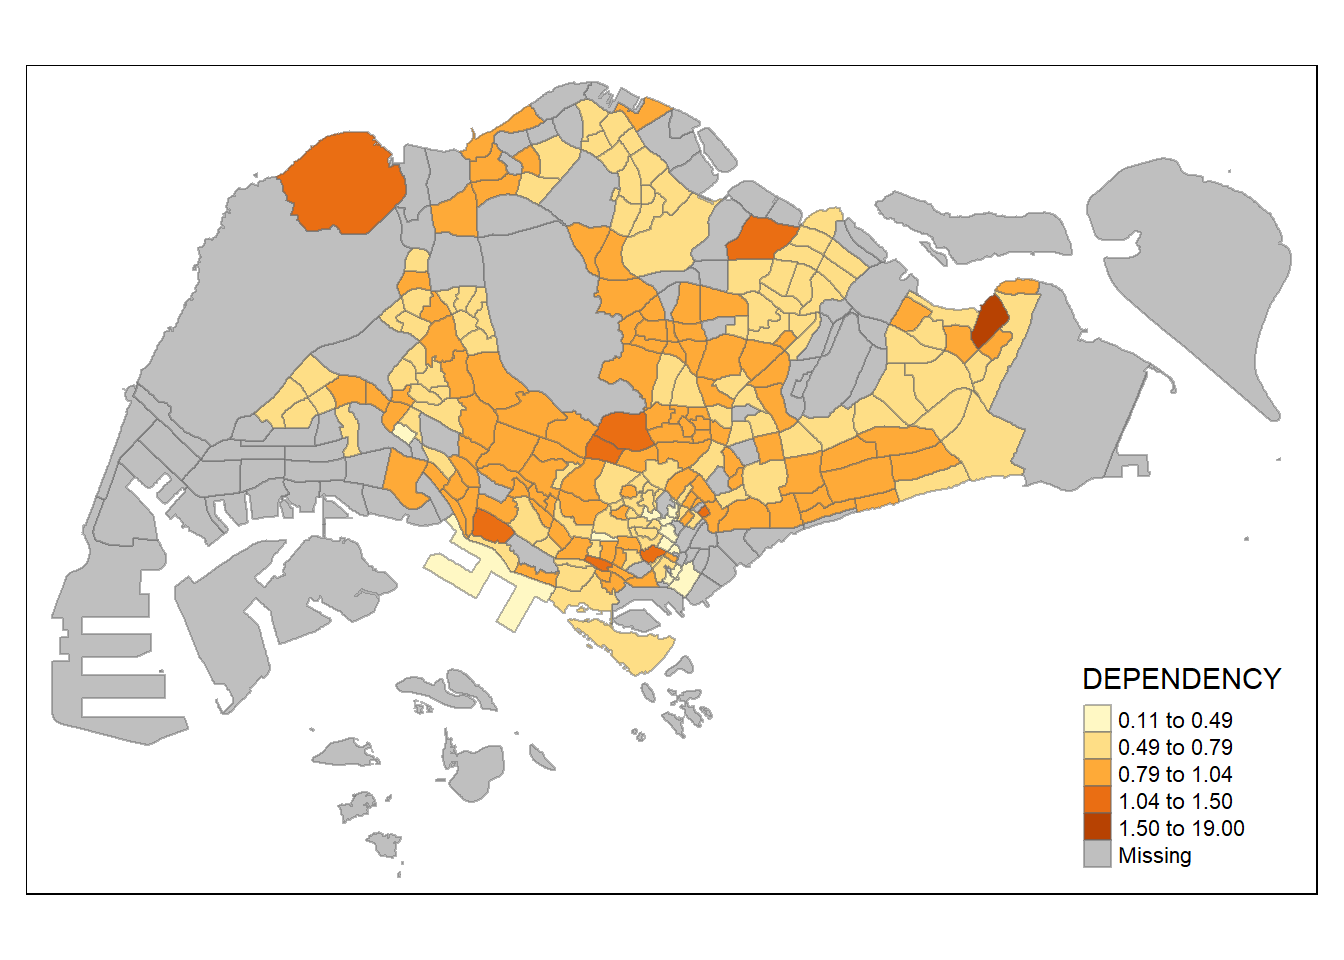
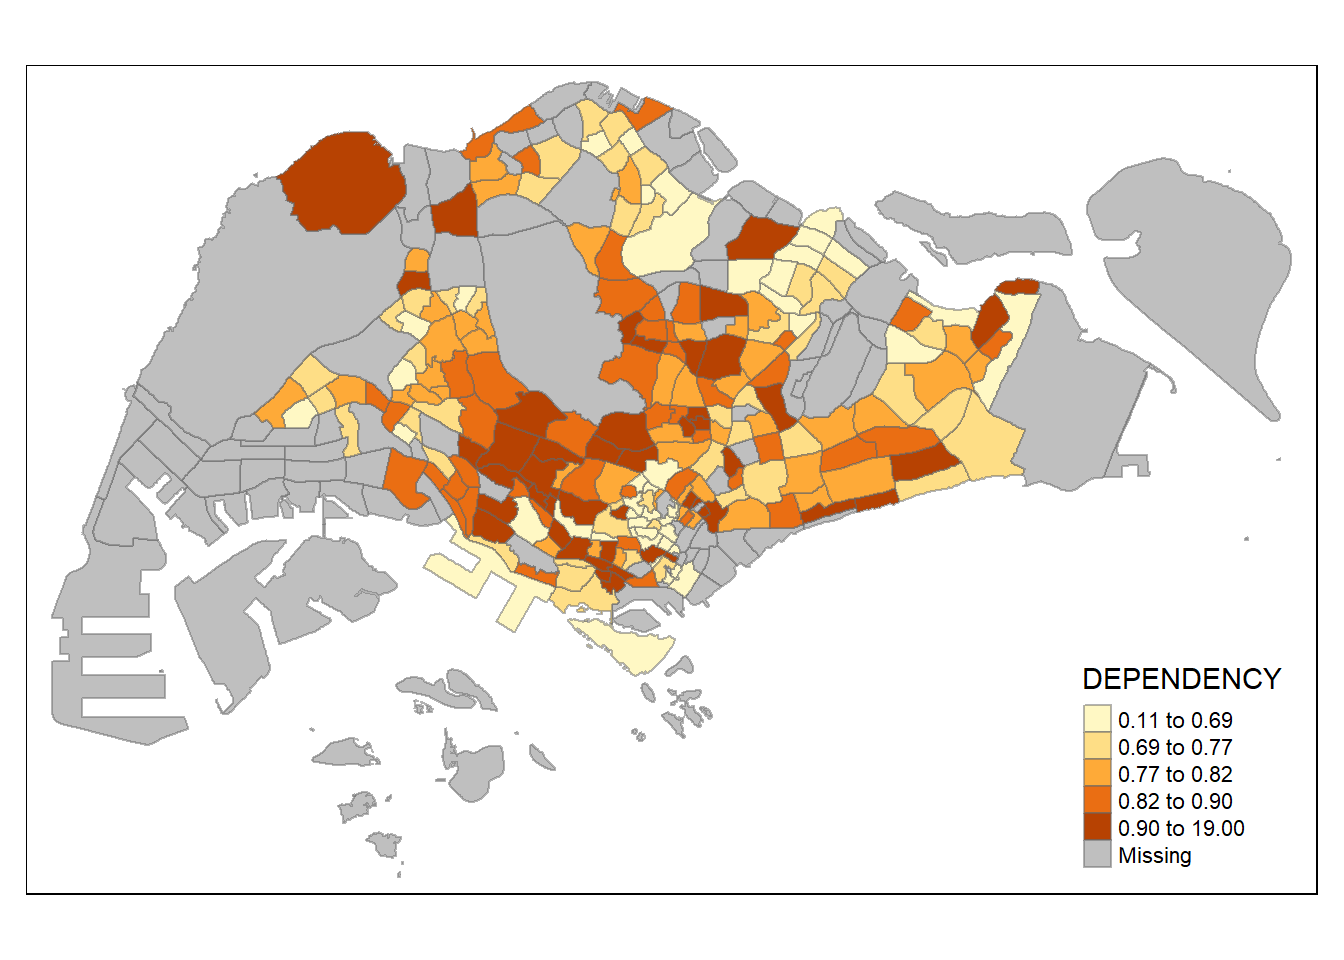
Create In-class Exercise 02

Changed region(s): [[0.1875, 0.0938, 0.7812, 0.7188], [0.8125, 0.7812, 0.9375, 0.875]]

diff --git a/_site/In-class_Ex/In-class_Ex02/In-class_Ex02.html b/_site/In-class_Ex/In-class_Ex02/In-class_Ex02.html
@@ -8,7 +8,7 @@
 
 <meta name="dcterms.date" content="2024-01-15">
 
-<title>IS415-GAA - 1st Order Spatial Point Patterns Analysis Methods</title>
+<title>IS415-GAA - R for Geospatial Data Science</title>
 <style>
 code{white-space: pre-wrap;}
 span.smallcaps{font-variant: small-caps;}
@@ -150,6 +150,17 @@ pre > code.sourceCode > span > a:first-child::before { text-decoration: underlin
   </li>  
     </ul>
   </li>
+  <li class="nav-item dropdown ">
+    <a class="nav-link dropdown-toggle" href="#" id="nav-menu-take-home-exercise" role="button" data-bs-toggle="dropdown" aria-expanded="false" rel="" target="">
+ <span class="menu-text">Take-home Exercise</span>
+    </a>
+    <ul class="dropdown-menu" aria-labelledby="nav-menu-take-home-exercise">    
+        <li>
+    <a class="dropdown-item" href="../../Take-home_Ex/Take-home_Ex01/Take-home_Ex01.html" rel="" target="">
+ <span class="dropdown-text">Take-home Exercise 1</span></a>
+  </li>  
+    </ul>
+  </li>
 </ul>
             <ul class="navbar-nav navbar-nav-scroll ms-auto">
   <li class="nav-item">
@@ -176,13 +187,7 @@ pre > code.sourceCode > span > a:first-child::before { text-decoration: underlin
     <h2 id="toc-title">On this page</h2>
    
   <ul>
-  <li><a href="#overview" id="toc-overview" class="nav-link active" data-scroll-target="#overview">Overview</a></li>
-  <li><a href="#the-data" id="toc-the-data" class="nav-link" data-scroll-target="#the-data">The Data</a></li>
-  <li><a href="#installing-and-loading-the-r-packages" id="toc-installing-and-loading-the-r-packages" class="nav-link" data-scroll-target="#installing-and-loading-the-r-packages">Installing and Loading the R packages</a></li>
-  <li><a href="#spatial-data-wrangling" id="toc-spatial-data-wrangling" class="nav-link" data-scroll-target="#spatial-data-wrangling">Spatial Data Wrangling</a>
-  <ul class="collapse">
-  <li><a href="#importing-the-spatial-data" id="toc-importing-the-spatial-data" class="nav-link" data-scroll-target="#importing-the-spatial-data">Importing the spatial data</a></li>
-  </ul></li>
+  <li><a href="#getting-started" id="toc-getting-started" class="nav-link active" data-scroll-target="#getting-started">Getting Started</a></li>
   </ul>
 </nav>
     </div>
@@ -191,8 +196,8 @@ pre > code.sourceCode > span > a:first-child::before { text-decoration: underlin
 
 <header id="title-block-header" class="quarto-title-block default">
 <div class="quarto-title">
-<h1 class="title">1st Order Spatial Point Patterns Analysis Methods</h1>
-<p class="subtitle lead">Hands-on Exercise 3-1</p>
+<h1 class="title">R for Geospatial Data Science</h1>
+<p class="subtitle lead">In-class Exercise 2</p>
 </div>
 
 
@@ -219,82 +224,21 @@ pre > code.sourceCode > span > a:first-child::before { text-decoration: underlin
 
 </header>
 
-<section id="overview" class="level1">
-<h1>Overview</h1>
-<p>Spatial Point Pattern Analysis is the evaluation of the pattern or distribution, of a set of points on a surface. The point can be a location of:</p>
+<section id="getting-started" class="level1">
+<h1>Getting Started</h1>
+<p>The following R packages will be used:</p>
 <ul>
-<li><p>events such as crime, traffic accident and disease onset</p></li>
-<li><p>business services (coffee and fast-food outlets) or facilities such as childcare and elder-care</p></li>
+<li><p>arrow</p></li>
+<li><p>lubridate</p></li>
+<li><p>tidyverse</p></li>
+<li><p>tmap</p></li>
+<li><p>sf</p></li>
 </ul>
-<p>Using appropriate functions of <code>spatstat</code>, this hands-on exercise aims to discover the spatial point processes of childcare centers in Singapore.</p>
-<p>The specific questions we would like to answer are as follows:</p>
-<ul>
-<li><p>Are childcare centers in Singapore randomly distributed throughout the country?</p></li>
-<li><p>If the answer is not, then the next logical question is where are the locations with higher concentration of childcare centers?</p></li>
-</ul>
-</section>
-<section id="the-data" class="level1">
-<h1>The Data</h1>
-<p>To provide answers to the questions above, three data sets will be used. They are:</p>
-<ul>
-<li><p><code>CHILDCARE</code></p>
-<ul>
-<li><p>a point feature data providing both location and attribute information of childcare centers.</p></li>
-<li><p>Downloaded from Data.gov.sg and is in geojson format</p></li>
-</ul></li>
-<li><p><code>MP14_SUBZONE_WEB_PL</code></p>
-<ul>
-<li><p>a polygon feature data providing information of URA 2014 Master Plan Planning Subzone boundary data.</p></li>
-<li><p>Downloaded from Data.gov.sg and is in ESRI shapefile format</p></li>
-</ul></li>
-<li><p><code>CostalOutline</code></p>
-<ul>
-<li><p>a polygon feature data showing the national boundary of Singapore.</p></li>
-<li><p>Provided by SLA and is in ESRI shapefile format</p></li>
-</ul></li>
-</ul>
-</section>
-<section id="installing-and-loading-the-r-packages" class="level1">
-<h1>Installing and Loading the R packages</h1>
-<p>In this hands-on exercise, five R packages will be used, they are:</p>
-<ul>
-<li><p><a href="https://r-spatial.github.io/sf/"><strong>sf</strong></a></p>
-<ul>
-<li>a relatively new R package specially designed to import, manage and process vector-based geospatial data in R</li>
-</ul></li>
-<li><p><a href="https://spatstat.org/"><strong>spatstat</strong></a></p>
-<ul>
-<li><p>which has a wide range of useful functions for point pattern analysis.</p></li>
-<li><p>In this hands-on exercise, it will be used to perform 1st- and 2nd-order spatial point patterns analysis and derive kernel density estimation (KDE) layer.</p></li>
-</ul></li>
-<li><p><a href="https://cran.r-project.org/web/packages/raster/"><strong>raster</strong></a></p>
-<ul>
-<li><p>which reads, writes, manipulates, analyses and model gridded spatial data (i.e.&nbsp;raster).</p></li>
-<li><p>In this hands-on exercise, it will be used to convert image output generated by <strong>spatstat</strong> into raster format</p></li>
-</ul></li>
-<li><p><a href="https://cran.r-project.org/web/packages/maptools/"><strong>maptools</strong></a></p>
-<ul>
-<li><p>which provides a set of tools for manipulating geographic data.</p></li>
-<li><p>In this hands-on exercise, we mainly use it to convert <code>Spatial</code> objects into <code>ppp</code> format of <strong>spatstat</strong>.</p></li>
-</ul></li>
-<li><p><a href="https://cran.r-project.org/web/packages/tmap/"><strong>tmap</strong></a></p>
-<ul>
-<li>which provides functions for plotting cartographic quality static point pattern maps or interactive maps by using <a href="https://leafletjs.com/">leaflet</a> API</li>
-</ul></li>
-</ul>
-<p>Use the code below to install and launch the five R packages.</p>
 <div class="cell">
-<div class="sourceCode cell-code" id="cb1"><pre class="sourceCode r code-with-copy"><code class="sourceCode r"><span id="cb1-1"><a href="#cb1-1" aria-hidden="true" tabindex="-1"></a>pacman<span class="sc">::</span><span class="fu">p_load</span>(maptools, sf, raster, spatstat, tmap)</span></code><button title="Copy to Clipboard" class="code-copy-button"><i class="bi"></i></button></pre></div>
+<div class="sourceCode cell-code" id="cb1"><pre class="sourceCode r code-with-copy"><code class="sourceCode r"><span id="cb1-1"><a href="#cb1-1" aria-hidden="true" tabindex="-1"></a>pacman<span class="sc">::</span><span class="fu">p_load</span>(sf, tmap, tidyverse)</span></code><button title="Copy to Clipboard" class="code-copy-button"><i class="bi"></i></button></pre></div>
 </div>
-</section>
-<section id="spatial-data-wrangling" class="level1">
-<h1>Spatial Data Wrangling</h1>
-<section id="importing-the-spatial-data" class="level2">
-<h2 class="anchored" data-anchor-id="importing-the-spatial-data">Importing the spatial data</h2>
-<p>In this section, <code>st_read()</code> of <strong>sf</strong> package will be used to import these three geospatial data sets into R.</p>
 
 
-</section>
 </section>
 
 <a onclick="window.scrollTo(0, 0); return false;" role="button" id="quarto-back-to-top"><i class="bi bi-arrow-up"></i> Back to top</a></main> <!-- /main -->

diff --git a/_site/Hands-on_Ex/Hands-on_Ex02/Hands-on_Ex02.html b/_site/Hands-on_Ex/Hands-on_Ex02/Hands-on_Ex02.html
@@ -129,6 +129,14 @@ pre > code.sourceCode > span > a:first-child::before { text-decoration: underlin
     <a class="dropdown-item" href="../../Hands-on_Ex/Hands-on_Ex02/Hands-on_Ex02.html" rel="" target="">
  <span class="dropdown-text">Hands-on Exercise 2</span></a>
   </li>  
+        <li>
+    <a class="dropdown-item" href="../../Hands-on_Ex/Hands-on_Ex03/Hands-on_Ex03-1.html" rel="" target="">
+ <span class="dropdown-text">Hands-on Exercise 3-1</span></a>
+  </li>  
+        <li>
+    <a class="dropdown-item" href="../../Hands-on_Ex/Hands-on_Ex03/Hands-on_Ex03-2.html" rel="" target="">
+ <span class="dropdown-text">Hands-on Exercise 3-2</span></a>
+  </li>  
     </ul>
   </li>
 </ul>
@@ -232,7 +240,7 @@ pre > code.sourceCode > span > a:first-child::before { text-decoration: underlin
     <div>
     <div class="quarto-title-meta-heading">Modified</div>
     <div class="quarto-title-meta-contents">
-      <p class="date-modified">January 13, 2024</p>
+      <p class="date-modified">January 15, 2024</p>
     </div>
   </div>
     
@@ -592,7 +600,7 @@ First 10 features:
 <div class="sourceCode cell-code" id="cb19"><pre class="sourceCode r code-with-copy"><code class="sourceCode r"><span id="cb19-1"><a href="#cb19-1" aria-hidden="true" tabindex="-1"></a><span class="fu">tm_shape</span>(mpsz_pop2020) <span class="sc">+</span> </span>
 <span id="cb19-2"><a href="#cb19-2" aria-hidden="true" tabindex="-1"></a>  <span class="fu">tm_fill</span>(<span class="st">"DEPENDENCY"</span>,</span>
 <span id="cb19-3"><a href="#cb19-3" aria-hidden="true" tabindex="-1"></a>          <span class="at">n =</span> <span class="dv">5</span>,</span>
-<span id="cb19-4"><a href="#cb19-4" aria-hidden="true" tabindex="-1"></a>          <span class="at">style =</span> <span class="st">"jenks"</span>) <span class="sc">+</span></span>
+<span id="cb19-4"><a href="#cb19-4" aria-hidden="true" tabindex="-1"></a>          <span class="at">style =</span> <span class="st">"quantile"</span>) <span class="sc">+</span></span>
 <span id="cb19-5"><a href="#cb19-5" aria-hidden="true" tabindex="-1"></a>  <span class="fu">tm_borders</span>(<span class="at">alpha =</span> <span class="fl">0.5</span>)</span></code><button title="Copy to Clipboard" class="code-copy-button"><i class="bi"></i></button></pre></div>
 <div class="cell-output-display">
 <p><img src="Hands-on_Ex02_files/figure-html/unnamed-chunk-15-1.png" class="img-fluid" width="672"></p>
